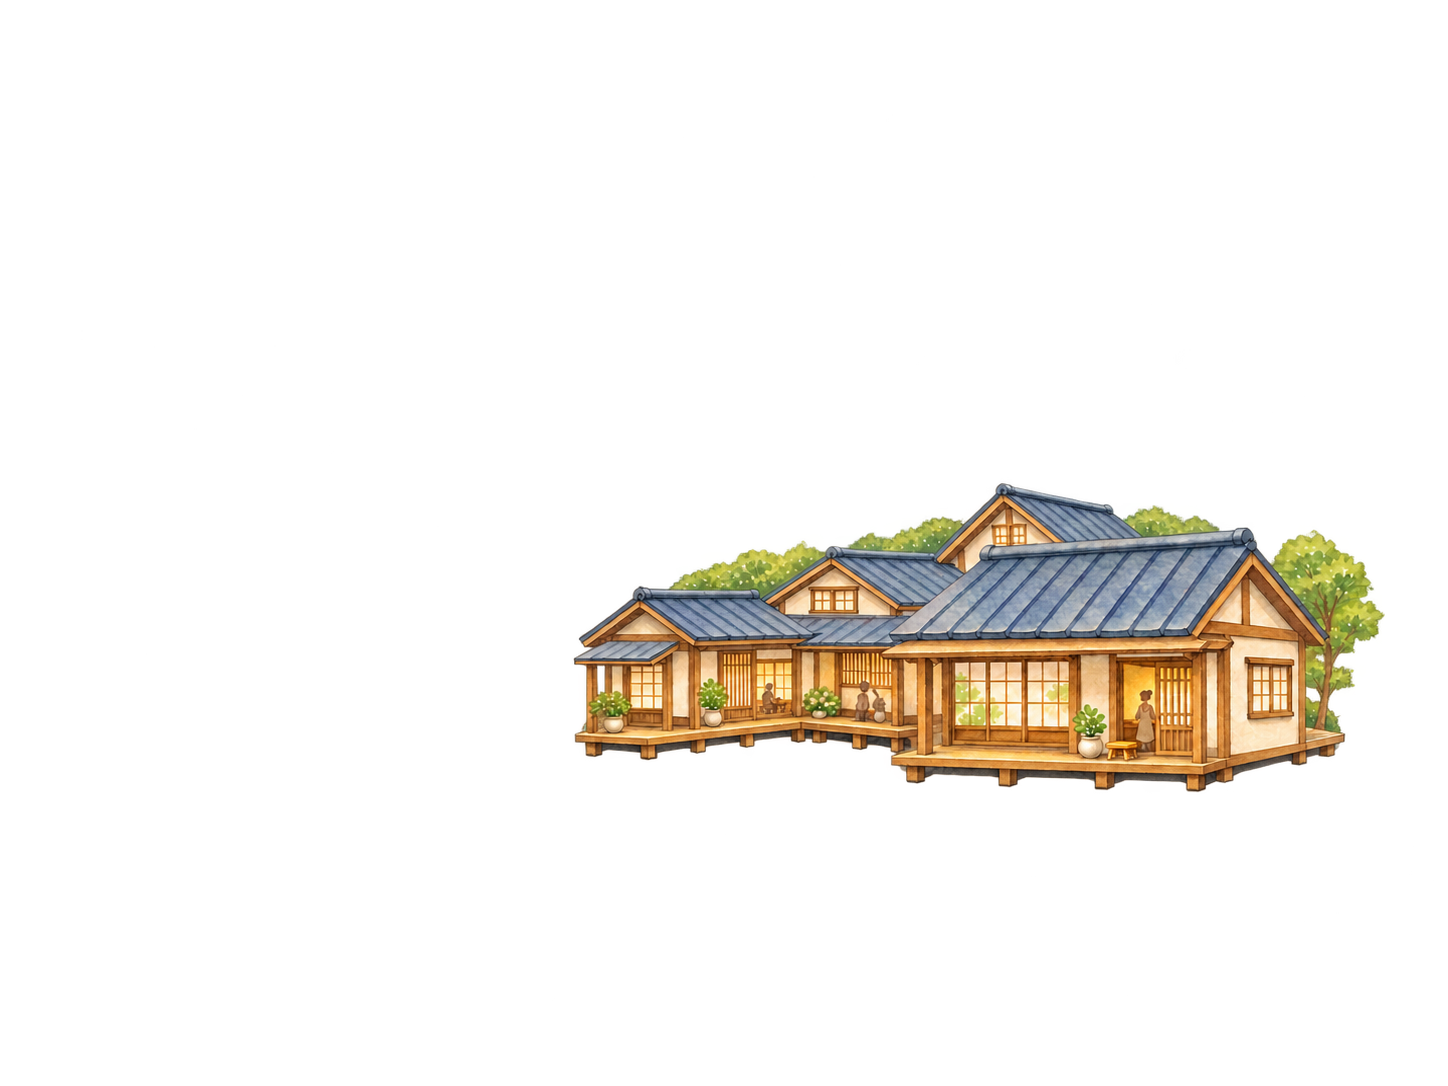
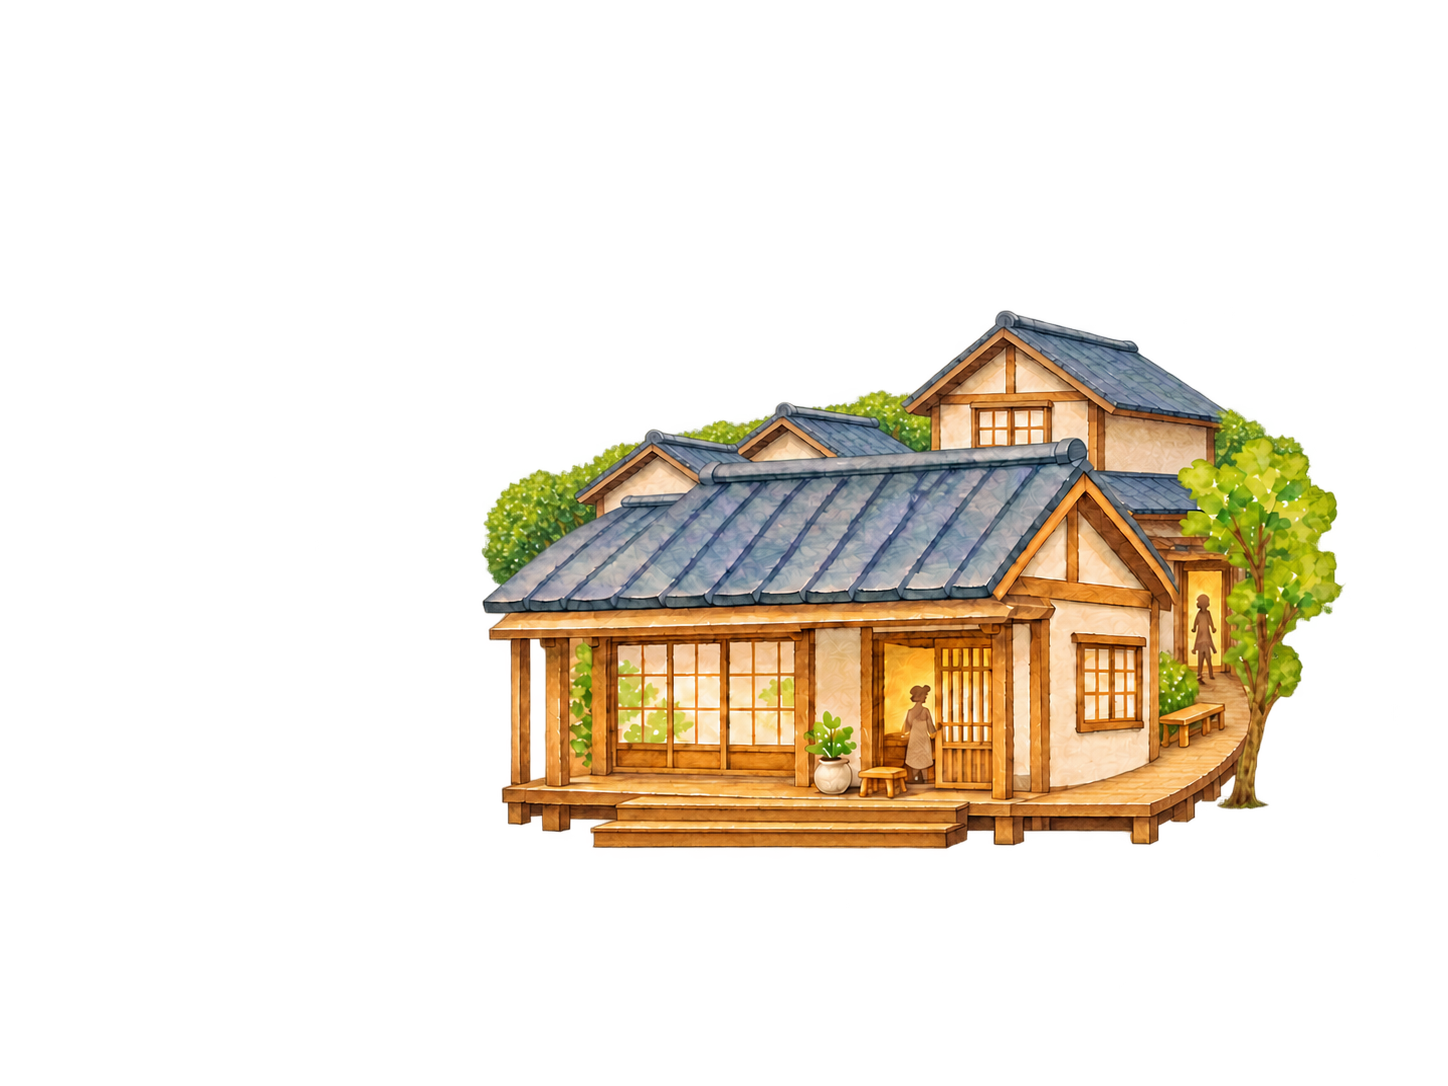
fix(art): improve shoreline alignment and residential growth candidates

Changed region(s): [[0.3108, 0.2735, 0.9634, 0.7901]]

diff --git a/docs/development/asset_progress.md b/docs/development/asset_progress.md
@@ -392,3 +392,52 @@ SVG枠は正本の640×640 viewBoxと512×512内窓に対応。画像は枠の(6
 独立QA（Agent F）はPILで全6点の512×512 RGBAと安全域、絵葉書の1600×1000 RGBを確認。枠160px/絵128pxと最小枠90px/絵72pxを彩色・グレースケールで確認し、燭台／ガラス覆い／花とレンズ／五つの灯籠／深いU字の灯り／縦のらせん支柱を識別できた。C04の灯籠5個を目視し、C05の暖色の光は紙色の最小表示で邪魔なハローにならないことを確認。C06は正本の図柄である支柱・らせん・花・月を確認し、描画された灯りの厳密な個数を20として検収したとは記録しない。絵葉書は通常480×300・最小160×100で庇・受け渡し・荷車・通行人を識別し、読める焼き込み文字がないことを確認。候補統合は可、実行時の手帳・結果・報酬装着・iPad表示の検収は未実施。
 
 追加はラスター7 ID。集計の追加分は画像7／SVG0／音源0。切手の図柄制作、実績判定、報酬解除・装着、実画面への合成は別々の完了条件として扱う。
+
+## 第7サイクル追記：共通地形・住宅地段階2の修正候補
+
+2026-11-13（指定クライアント日付、Asia/Tokyo）。既存の2 IDを対象とする修正であり、独立資材数の追加は0。上段の集計・音源状態は変更しない。`resource_implementation.md` の水際12点、港の陸地範囲、地区の足元(512,640)、安全域、左下店舗予約領域と、`rendering_rules.json` の段階置換・静止表示の契約を読み直した。
+
+### 制作方法と履歴の保持
+
+どちらも実際のimagegen編集を実施した。地形は旧原画と正本の座標から作った診断用ガイドを画像参照し、最後はガイドの内側へ水彩の色・質感を加える編集を採用。ガイドは画像生成への入力と検収の資料のみであり、実行時のクリップ、マスク、地形の代用品として使用しない。生成後のポリゴン切り抜き・塗り直し・座標への強制変形は行っていない。
+
+旧原生PNG・指定PNG・WebPを `originals/revisions/m5-geometry-r1/previous/` に保持する。修正の全プロンプト・採用/不採用の理由・座標の診断値は同階層の `requests.json` と `measurements.json` へ保存。`coordinate-guide.svg` は診断用の図で、制作資材IDとして数えない。不採用の生成結果は `originals/rejected/m5-geometry-r1/` に隔離し、以前の不採用原画も破棄しない。
+
+### terrain_riverside
+
+採用候補はimagegenの3回目の編集（原生1586×992 RGB）を全画面のまま3200×2000 RGBへ正規化し、同寸法の可逆WebPへ変換。指定PNG/WebPの全RGB画素は一致する。地形は正本に従う完全不透明であり、地区画の透過条件と混同しない。平らな中央と地区の空き領域、外周左側の小さな植栽、右側の水域を保つ。
+
+正規化後のWebPを、連続3画素の色条件 `B>1.06R && G>1.03R` で調べた水際の概算値：
+
+| 正本の点(x,y) | 最初の水色画素xの概算 | 差map_px |
+|---|---|---|
+| (1370,0) | 1370.5 | +0.5 |
+| (1365,200) | 1365.0 | 0.0 |
+| (1360,400) | 1360.0 | 0.0 |
+| (1340,550) | 1339.5 | −0.5 |
+| (1310,640) | 1309.5 | −0.5 |
+| (1280,695) | 1279.5 | −0.5 |
+| (1246.203125,737.578125) | 1246.0 | −0.203125 |
+| (1240,770) | 1239.5 | −0.5 |
+| (1240,820) | 1239.0 | −1.0 |
+| (1195,875) | 1194.5 | −0.5 |
+| (1150,940) | 1149.5 | −0.5 |
+| (1130,1000) | 1129.5 | −0.5 |
+
+端点は最終ラスタ行を調査。上の値は色によるラスタの診断であり、浮動小数点の水際との厳密な一致を証明する検査でも、独自に設定した合格許容幅でもない。港の積み下ろし範囲の正本座標x1158..1222/y760..808に対応する12,288画素では水色判定0。旧候補にあった大きな岸線ずれと港の水没を改善した候補とし、桟橋・路線・港の原画を実際に重ねた実行時検収、iPad表示は未完了。
+
+### city_residential_s2
+
+旧段階2を全体縮小していた方法をやめ、段階1の大きな主屋を参照して後方へ低い切妻とL字の共同縁側・長椅子を増築するimagegen編集を実施。新しく高くなり過ぎた後方の樹木を別の編集で低い生垣へ修正した。採用候補の原生1448×1086 RGBA全キャンバスを963×722へ比例縮小し、1024×768の(60,18)へ配置。キャンバス全体を保持し、構造物を切り抜かない。指定PNGは8bit RGBA、WebPは可逆でアルファが全画素一致する。
+
+| 比較 | 50%以上不透明な範囲 | 幅×高さ |
+|---|---|---|
+| 段階1（参照） | (391,310)〜(945,591) | 554×281 |
+| 旧段階2 | (373,376)〜(899,577) | 526×201 |
+| 修正段階2 | (381,225)〜(953,582) | 572×357 |
+
+修正候補は段階1より低く平たくなる問題を改善し、主屋の屋根と窓の大きさを保ちながら後方の屋根が増える。全アルファ範囲は(379,222)〜(957,588)。正本の安全域外と店舗予約領域x64..352/y440..736は全画素alpha0。彩色の264×198、132×99、96×72の静止比較を作成した。
+
+**未完了：** 不透明な足元はy582で、正本の足元y640との一致は未達。前方の木段を延長する追加編集は、広い灰色の半透明背景を生じ、店舗予約領域と安全域も破ったため不採用にした。背景をプログラムで切って合格にする処理は行わない。見た目の成長の改善と、足元・実地図の完全な検収を分け、M5の当該条件を完了扱いにしない。
+
+独立QA（Agent F）は2候補を目視し、修正段階2が264/132/96表示で段階1から明確に成長すること、安全域外alpha0をPILで確認した。足元582対640は厳密条件の阻害要因として保持。地形の完全不透明RGB、港の水色0/12,288画素、ガイドに沿う岸線を独立確認したが、頂点の概算差±1pxは厳密な輪郭一致の証明ではないとした。候補の置換は可、厳密な基準点・水際・実行時の受入は保留。画面合成・E2E・iPadでの確認を統括担当が行うまで、どちらも製品の最終受入済みとはしない。
